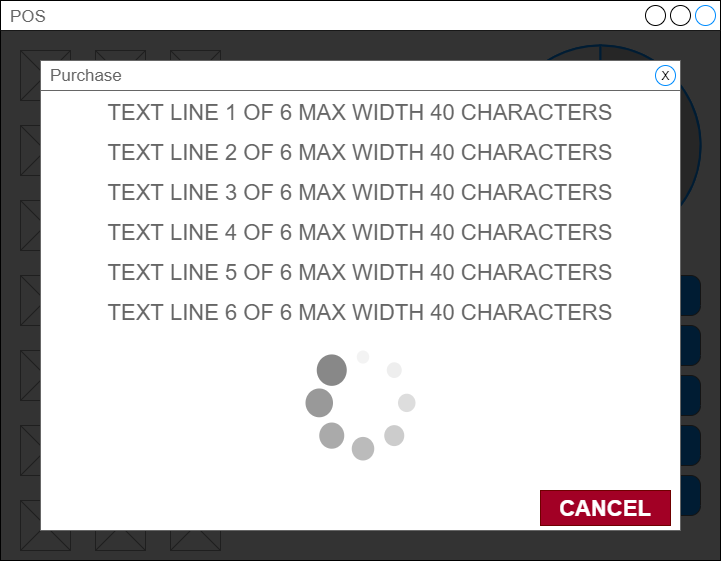
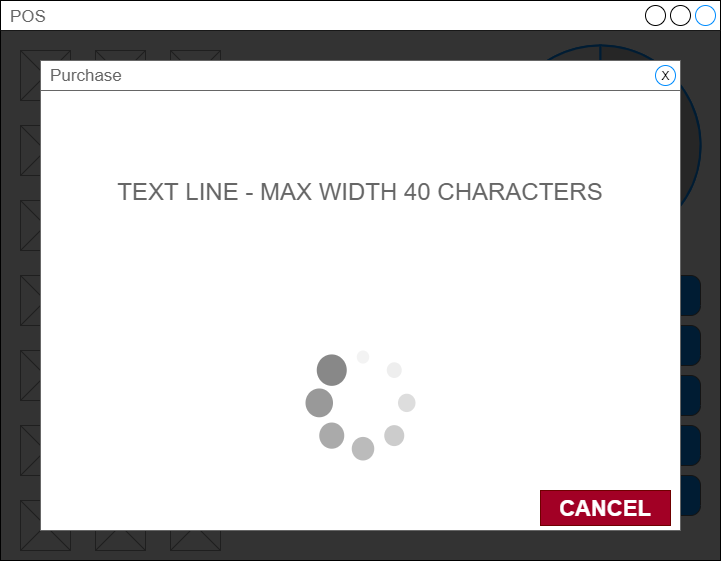
Update to 'DisplayUI' requirements

diff --git a/source/includes/_01-getting-started.md b/source/includes/_01-getting-started.md
@@ -46,7 +46,7 @@ Below is a an overview of the mandatory integration requirements.
 - Support for TLS and other [security requirements](#security-requirements)
 - Additional fields will be added to the message specification over time. To ensure forwards compatibility the Sale System must ignore when extra objects and fields are present in response messages. This includes valid MAC handling in the SecurityTrailer.
 - [Settings user interface](#settings-user-interface)
-- [Payments user interface](#payment-user-interface) which handles the `Initial UI`, `Final UI`, and `cancelling a sale in progress`
+- [Payments user interface](#payment-user-interface) which handles the `Initial UI`, `Final UI`, `Display UI`, and `cancelling a sale in progress`
 - Handle error scenarios as outlined in [error handling](#error-handling)
 - Ensure Sale System provides a unique [payment identification](#payment-identification)
 - Pass the accreditation [test script](#testing)
@@ -204,16 +204,16 @@ ARQC: XXXXXXXXXXXXXXXX           </br>
 
 <aside class="warning">
 
-The Sale System should implement <code>Initial UI</code>, <code>Final UI</code>, and the ability to <code>cancel a sale in progress</code>. 
+The Sale System should implement <code>Initial UI</code>, <code>Final UI</code>, <code>Display UI</code> and the ability to <code>cancel a sale in progress</code>. 
 
-Support for the other UI elements is optional and will be supported by a future Unify release. 
+The <code>Input UI</code> elements are not currently available, and will be supported by a future Unify release. Support for these elements by the Sale System is optional.
 
 </aside>
 
 
 If capable, the Sale System should present UI to the cashier for the duration of a payment. The content of the UI is set by the [input](#input) and [display](#display) request messages sent from the POI System.
 
-In the examples presented below the UI is contained in a modal shadow box. It is suggested that this UI be implemented by the Sale System in a way that fits the look and feel of the rest of the system.
+In the examples presented below the UI is contained in a modal shadow box. This is an example to help illustrate how this UI may be implemented. The Sale System should implement this UI in a way that fits the look and feel of the rest of the system.
 
 The Sale System must not block communication with the POI System when displaying the payments UI. The POI System may send a display or input request, followed by another display or input request, or the payment response. For example, the POI System may send a "SELECT ACCOUNT" display, followed by a "PROCESSING" display when the card holder selects their account on the POI terminal. The POI System may send a "SIGNATURE APPROVED" input request, followed by a "TIMEOUT" display and payment response, if the cashier doesn't approve the signature in time.
 
@@ -270,18 +270,7 @@ This UI should also enable the cashier to request a cancellation of the transact
                "OutputContent":{
                   "OutputFormat":"Text",
                   "OutputText":{
-                     "Text":"TEXT LINE 1 OF 6 MAX WIDTH 40 CHARACTERS"
-                  }
-               }
-            },
-            {
-               "ResponseRequiredFlag":false,
-               "Device":"CashierDisplay",
-               "InfoQualify":"Status",
-               "OutputContent":{
-                  "OutputFormat":"Text",
-                  "OutputText":{
-                     "Text":"TEXT LINE 2 OF 6 MAX WIDTH 40 CHARACTERS"
+                     "Text":"LINE OF TEXT MAX 40 CHARACTERS"
                   }
                }
             }			
@@ -294,7 +283,7 @@ This UI should also enable the cashier to request a cancellation of the transact
 
 The POI system will send zero or more [display request](#display) messages to the Sale System during a transaction. The Sale System should display these messages and continue to wait for the payment response.
 
-- Each display request will contain with 1 to 6 lines of text.
+- Each display request will contain at least 1 line of text.
 - Each line of text will be up to 40 characters wide.
 - The POI System should display the text centred.
 - The POI System should include the option to cancel the transaction.
@@ -306,6 +295,10 @@ The POI system will send zero or more [display request](#display) messages to th
 ![](images/dialog-display.png)
 
 #### Input UI
+
+<aside class="warning">
+The <code>Input UI</code> elements are not currently available, and will be supported by a future Unify release. Support for these elements by the Sale System is optional.
+</aside>
 
 The POI system will send zero or more [input request](#input) messages to the Sale System during a transaction. The Sale System should display these input requests, allow the cashier the option to answer the input request, and continue to wait for the payment response. The Sale System should not block on an input request, as the POI System may continue with the transaction before the Sale System has sent an input response.
 

diff --git a/source/includes/_03-satellite-api-reference.md b/source/includes/_03-satellite-api-reference.md
@@ -1,5 +1,9 @@
 # Satellite API Reference
 
+<aside class="warning">
+The new Fusion Satellite API documented below is currently unavailable in production. Please contact the Data Mesh integrations team at <a href="mailto:integrations@datameshgroup.com">integrations@datameshgroup.com</a> for details on how to use the Fusion Satellite API.
+</aside>
+
 The Fusion Satellite API allows a Sale System running on the POI terminal to communicate with the DataMesh Satellite payment application on the same POI terminal using inter-app communication with [Android intents](https://developer.android.com/guide/components/intents-filters).
 
 

diff --git a/source/index.html.md b/source/index.html.md
@@ -2,10 +2,11 @@
 title: Fusion API
 
 language_tabs: # must be one of https://git.io/vQNgJ
+  - json: JSON
   - java: Java
 
 toc_footers:
-  - v3.2 2020-08-13
+  - 2020-08-19
   - <a href='https://www.datameshgroup.com'>DataMesh Group</a>
 
 includes:
@@ -26,7 +27,7 @@ code_clipboard: true
 
 <!--
 
-TODO/QUESTIONS
+TODO
 
 Matched refunds - we require a POS to match refunds to original purchases. This is to enable support for alternative payments (e.g. Alipay/WeChat). 
 

diff --git a/source/includes/_02-cloud-api-reference.md b/source/includes/_02-cloud-api-reference.md
@@ -63,12 +63,6 @@ Test environment
 -->
 
 
-<!--
-## Test client
-
-DataMesh host a [test client](http://test.datameshgroup.com.au:8080/wsdebug/index.html) which can be used to test your message format. 
--->
-
 ## Message format
 
 > SaleToPOIRequest
